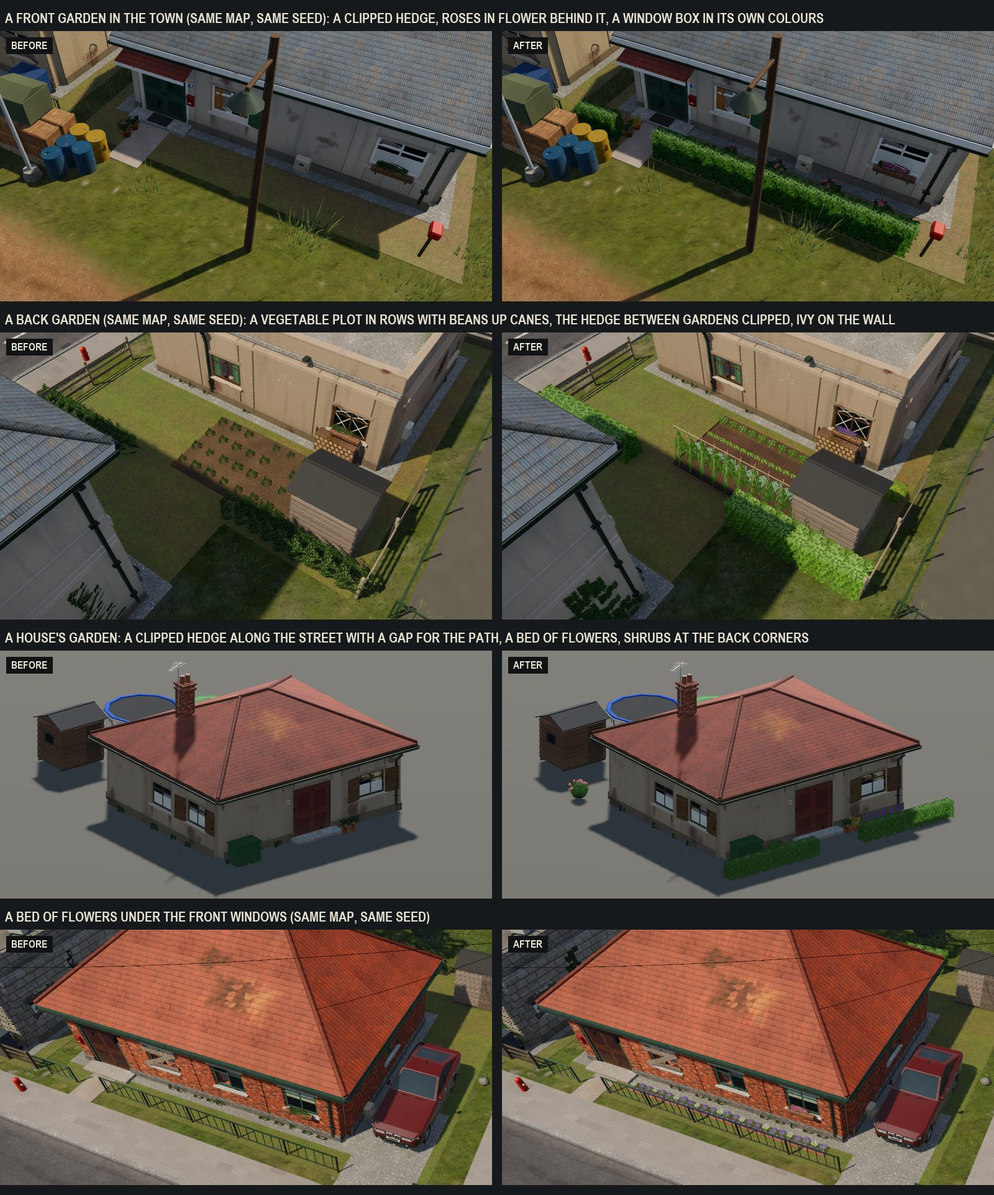
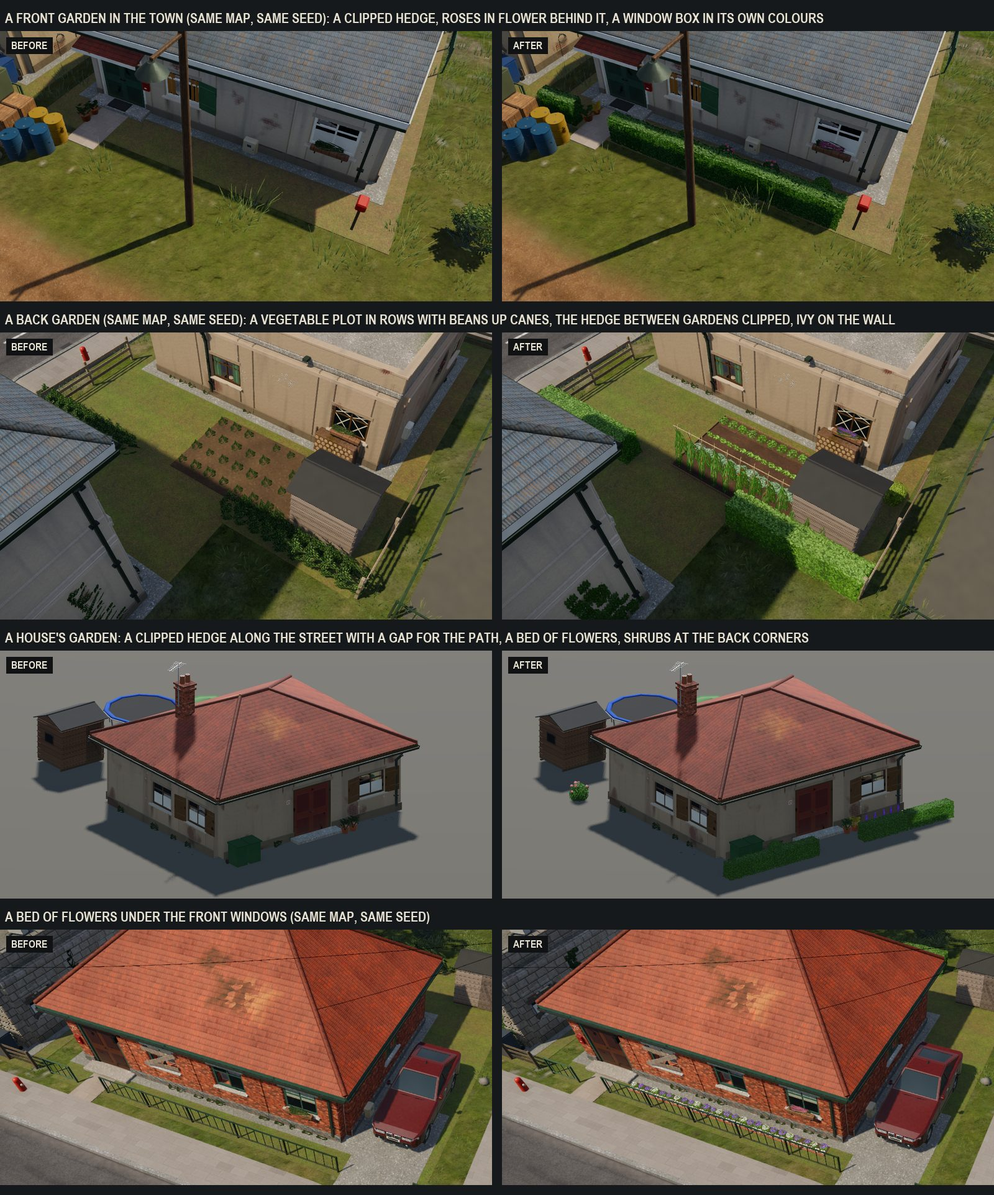
Show the less repeated plants: the same four views and the planting stage on the new shrubs and hedges
The garden view's camera follows the shifted shrubs (the baseline renders it
through FL_ONLY_VIEW); the changelog entry says shrubs grow from the ground,
no two alike.

diff --git a/changelog/unreleased/garden-planting.md b/changelog/unreleased/garden-planting.md
@@ -20,4 +20,5 @@ caption = "Every plant: box balls, hydrangeas, roses, lavender, laurels and gold
 - **Shrubs** grow at the back corners of many houses, laurels and golden privet among them.
 - **Flowers are their own colours** now, in window boxes and pots by the door too, where before they came out green.
 - **Ivy** on old walls is a thick mat of leaves with ragged edges, where before it was striped clumps.
+- **Shrubs grow from the ground** as broad domes, no two alike, with lighter new growth on top. Box balls are the exception, clipped round.
 - The plants are built from the trees' photographed leaves. Apart from the hedges between gardens they're scenery: a shell or a passing truck flattens them, and they give no cover.
